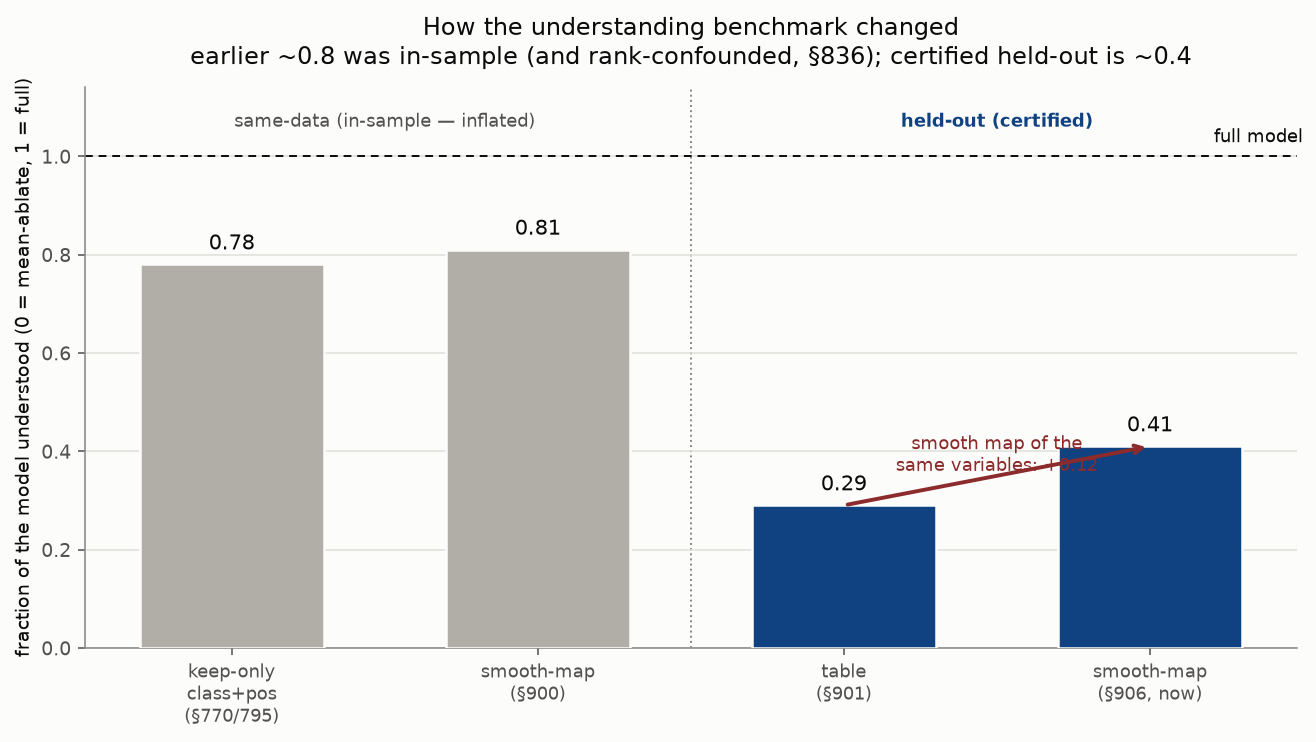
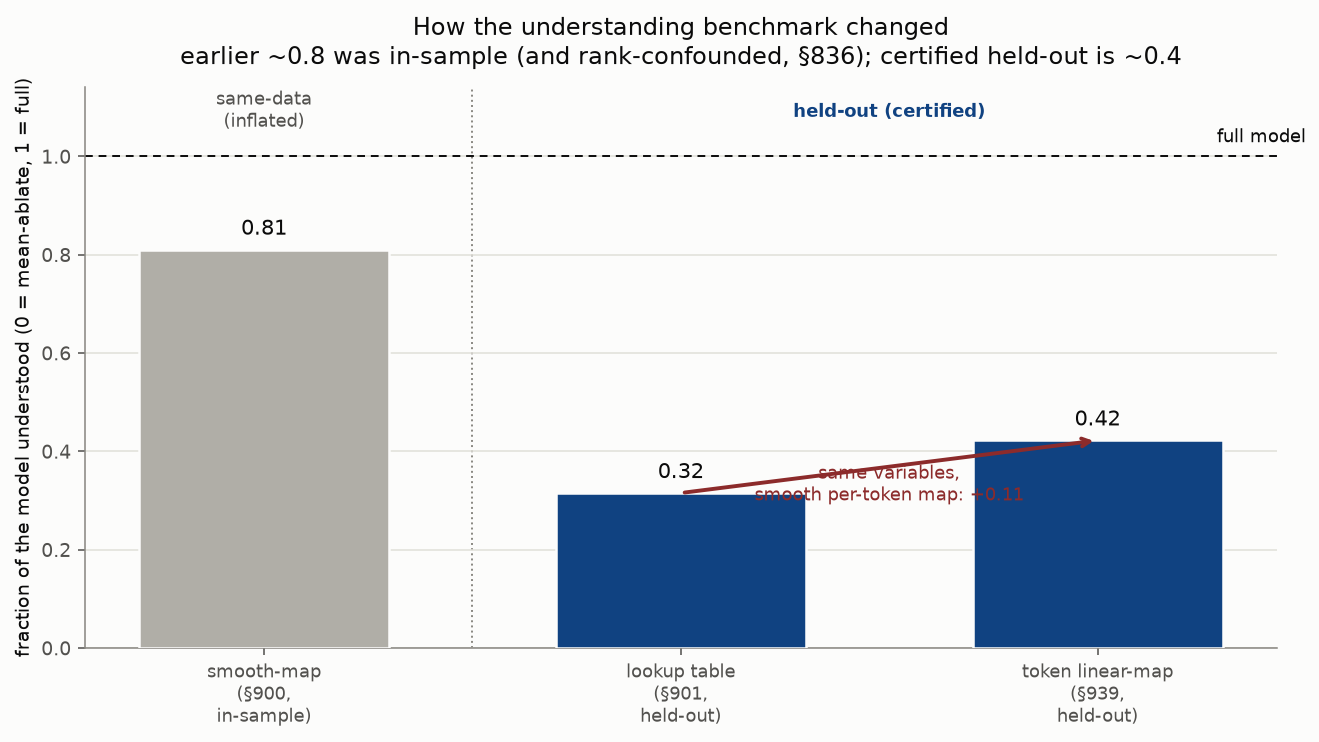
artifact + progression fig: benchmark 0.315 -> 0.42 (§939), phase boundary
Updated the standalone report's benchmark section to ~0.42 with the honest
progression (0.81 in-sample retracted -> 0.30 held-out table -> 0.42 held-out
smooth per-token map; token-map alone 0.32 beats old pipeline; shuffled null
-0.19). Regenerated benchmark_progression.png. Also queued
whole_model_understanding_bands (localize the 0.42 across depth).

Claude-Session: https://claude.ai/code/session_01U2g27AYkgJeumNFPGf46Dd

diff --git a/basis_aligned/bilinear_quotient/bilin18_report.html b/basis_aligned/bilinear_quotient/bilin18_report.html
@@ -1982,7 +1982,13 @@ nav.toc .tochd{grid-column:1/-1; font-size:.66rem; letter-spacing:.16em;
   30% of the model held-out — but a lookup fails on any token it didn't see in training, which penalizes even the
   front, where the computation really <em>is</em> a clean function of the token. Fit instead a smooth low-rank map
   of the same named variables (token embedding, previous-token embedding, continuous topic), and the honest
-  held-out number rises to about <strong>40%</strong>. It splits sharply by depth: the front grammar is recovered
+  held-out number rises to about <strong>42%</strong>. The jump is almost entirely the token variable getting its
+  fair form: a smooth per-token map, applied to all 36 components at once, recovers 0.32 of the model <em>by
+  itself</em> — more than the entire old discrete-table-plus-topic-plus-previous-token pipeline (0.315) combined —
+  and adding topic and previous-token on top brings it to 0.42. A shuffled-token version of the same map lands
+  <em>below</em> mean-ablation (−0.19), so the number is genuine token structure, not a fitting artifact. So the
+  benchmark's honest progression reads: 0.81 in-sample (memorization, retracted) → 0.30 held-out with lookup
+  tables → 0.42 held-out once the variables are given a smooth generalizing form. It splits sharply by depth: the front grammar is recovered
   at ~0.90 — essentially solved, a smooth generalizing function of the current token — the readout at ~0.56, and
   the middle content at ~0.10 with a coarse topic — but that last number understates it, and chasing it down
   pins the frontier exactly. Give the middle content its fair form — a higher-rank continuous content feature

diff --git a/basis_aligned/bilinear_quotient/make_progression_fig.py b/basis_aligned/bilinear_quotient/make_progression_fig.py
@@ -8,9 +8,9 @@ sys.path.insert(0, '/workspace/tensor_language')
 from palette import INK, SECONDARY, MUTED, GRID, SURFACE
 
 PT = '/workspace/tensor_language/basis_aligned/bilinear_quotient/'
-labels = ['keep-only\nclass+pos\n(§770/795)', 'smooth-map\n(§900)', 'table\n(§901)', 'smooth-map\n(§906, now)']
-vals   = [0.78, 0.81, 0.29, 0.41]
-kind   = ['same', 'same', 'held', 'held']   # same-data vs held-out
+labels = ['smooth-map\n(§900,\nin-sample)', 'lookup table\n(§901,\nheld-out)', 'token linear-map\n(§939,\nheld-out)']
+vals   = [0.81, 0.315, 0.422]
+kind   = ['same', 'held', 'held']   # same-data vs held-out
 col    = {'same': '#b0aea7', 'held': '#104281'}
 cols   = [col[k] for k in kind]
 
@@ -21,12 +21,12 @@ ax.bar(x, vals, width=0.6, color=cols, edgecolor=SURFACE, linewidth=1.3, zorder=
 for xi, v in zip(x, vals): ax.text(xi, v+0.02, f'{v:.2f}', ha='center', va='bottom', color=INK, fontsize=11)
 ax.axhline(1.0, color=INK, lw=1.0, ls=(0, (4, 3)), zorder=2); ax.text(len(labels)-0.5, 1.02, 'full model', ha='right', va='bottom', color=INK, fontsize=9)
 # divider between same-data and held-out
-ax.axvline(1.5, color=MUTED, lw=1.0, ls=':', zorder=1)
-ax.text(0.5, 1.06, 'same-data (in-sample — inflated)', ha='center', color=SECONDARY, fontsize=9.5)
-ax.text(2.5, 1.06, 'held-out (certified)', ha='center', color='#104281', fontsize=9.5, fontweight='bold')
+ax.axvline(0.5, color=MUTED, lw=1.0, ls=':', zorder=1)
+ax.text(0.0, 1.06, 'same-data\n(inflated)', ha='center', color=SECONDARY, fontsize=9.5)
+ax.text(1.5, 1.08, 'held-out (certified)', ha='center', color='#104281', fontsize=9.5, fontweight='bold')
 # arrow showing method improvement within held-out
-ax.annotate('', xy=(3, 0.41), xytext=(2, 0.29), arrowprops=dict(arrowstyle='->', color='#8c2b2b', lw=2))
-ax.text(2.5, 0.36, 'smooth map of the\nsame variables: +0.12', ha='center', color='#8c2b2b', fontsize=9)
+ax.annotate('', xy=(2, 0.422), xytext=(1, 0.315), arrowprops=dict(arrowstyle='->', color='#8c2b2b', lw=2))
+ax.text(1.5, 0.30, 'same variables,\nsmooth per-token map: +0.11', ha='center', color='#8c2b2b', fontsize=9)
 ax.set_xticks(x); ax.set_xticklabels(labels, fontsize=9.5, color=INK)
 ax.set_ylabel('fraction of the model understood (0 = mean-ablate, 1 = full)', fontsize=10, color=INK)
 ax.set_title('How the understanding benchmark changed\nearlier ~0.8 was in-sample (and rank-confounded, §836); certified held-out is ~0.4',
